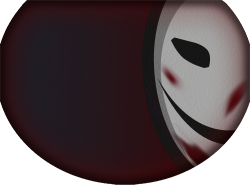
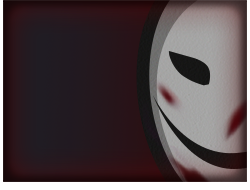
Payday Loan Art and Dissolute satisfaction art update

Changed region(s): [[0.0, 0.0, 1.0, 0.9737], [0.644, 0.0, 0.672, 0.0789], [0.616, 0.0789, 0.644, 0.1053]]

diff --git a/theThief/src/main/java/thiefmod/cards/PaydayLoan.java b/theThief/src/main/java/thiefmod/cards/PaydayLoan.java
@@ -18,7 +18,7 @@ public class PaydayLoan extends AbstractBackstabCard {
     // TEXT DECLARATION
     
     public static final String ID = ThiefMod.makeID("PaydayLoan");
-    public static final String IMG = "theThiefAssets/images/cards/beta/Attack.png";
+    public static final String IMG = "theThiefAssets/images/cards/PaydayLoan.png";
     public static final CardColor COLOR = AbstractCardEnum.THIEF_GRAY;
     
     private static final CardStrings cardStrings = CardCrawlGame.languagePack.getCardStrings(ID);
@@ -32,9 +32,9 @@ public class PaydayLoan extends AbstractBackstabCard {
     public static final String UPGRADE_DESCRIPTION = cardStrings.UPGRADE_DESCRIPTION;
     private static final CardRarity RARITY = CardRarity.RARE;
     private static final CardTarget TARGET = CardTarget.SELF;
-    private static final CardType TYPE = CardType.ATTACK;
+    private static final CardType TYPE = CardType.SKILL;
     
-    private static final int COST = 2;
+    private static final int COST = 1;
     private static final int UPGRADE_COST = 0;
     
     private static final int MAGIC = 1; // Refund Card Power
